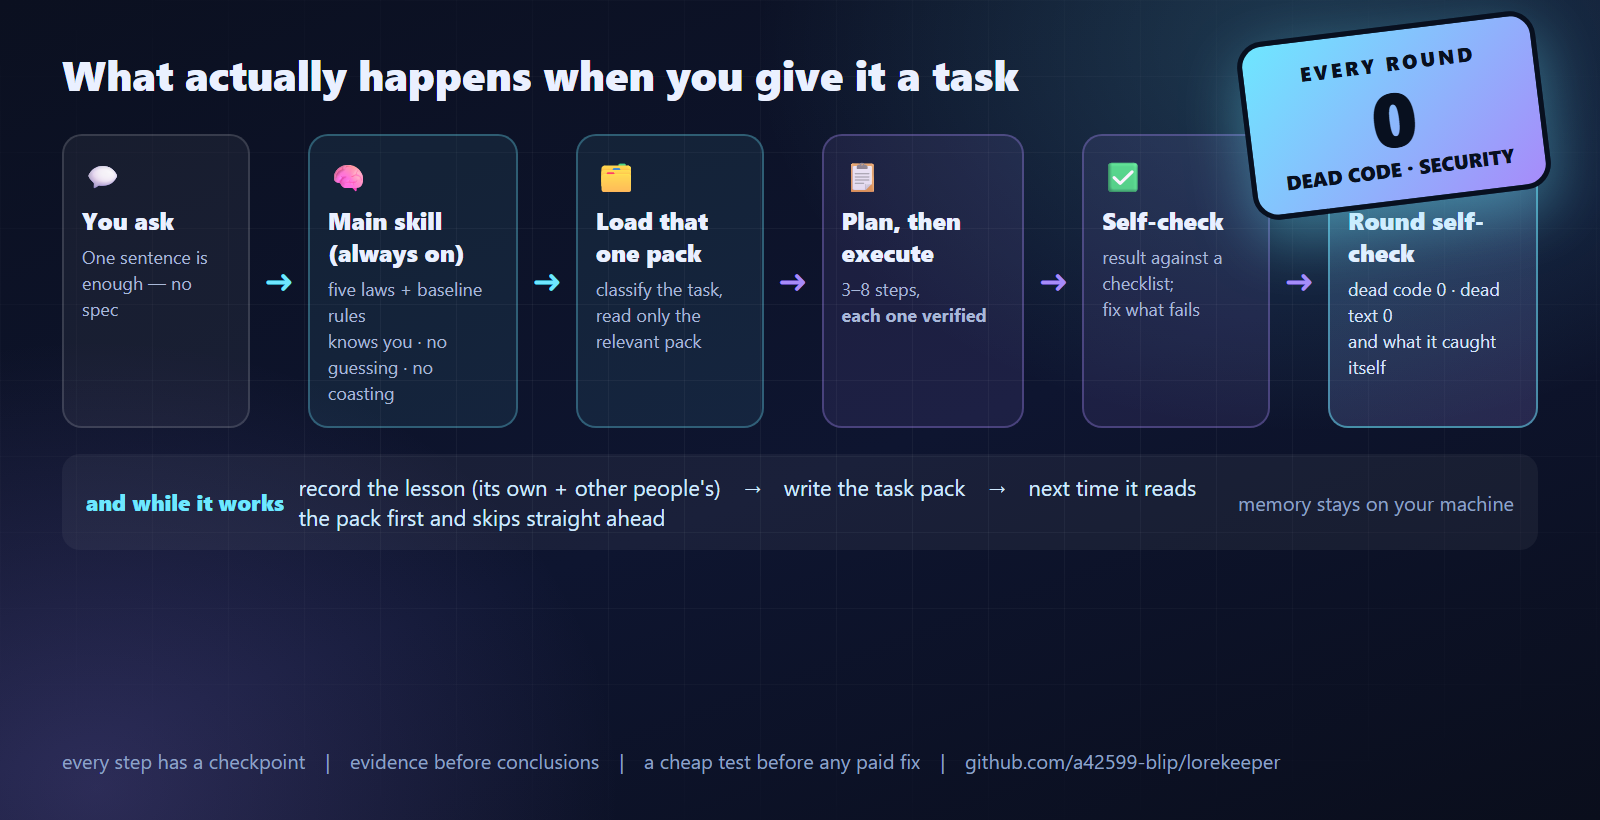
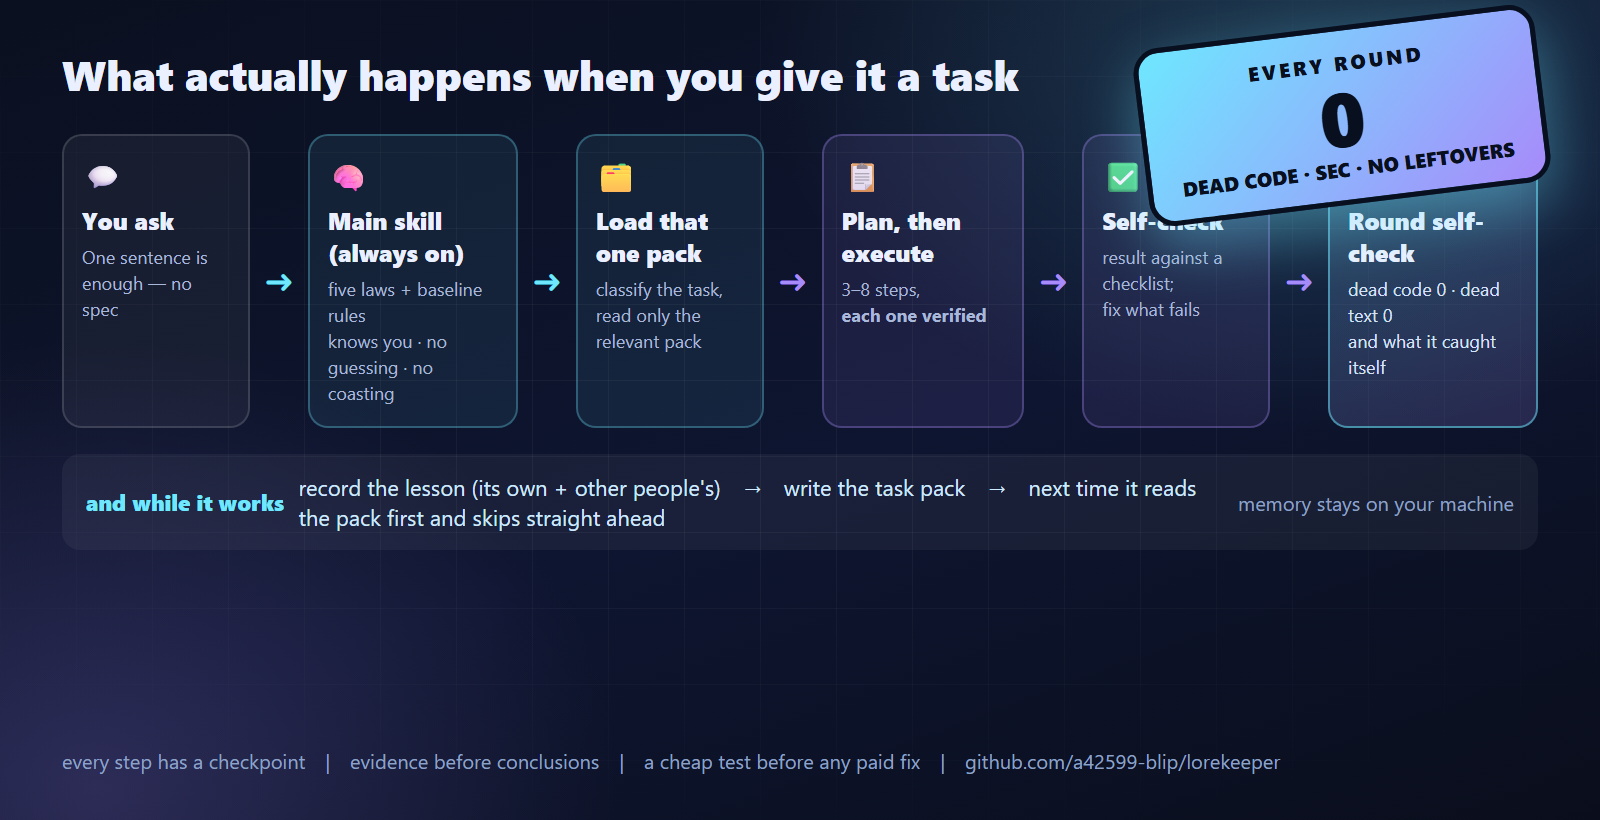
0.10.0: baseline rules B5 (trash-only deletes) and B6 (scratch folders, cleared per stage)

Changed region(s): [[0.6875, 0.0, 0.9688, 0.3049]]

diff --git a/locales/zh-TW/SKILL.zh-TW.md b/locales/zh-TW/SKILL.zh-TW.md
@@ -44,6 +44,8 @@ license: 保留所有權利 — 見 LICENSE（All rights reserved）
 | **B2** | **換掉就刪掉** | 換一個做法，舊的就在同一次改動裡刪掉。**不准留「以備不時之需」的註解舊碼**——版本控制就是那個「不時之需」。 |
 | **B3** | **寫入或安裝前，先講一聲** | 一行就好：你要新增／改動／安裝什麼、放在哪裡。**不要不講話就動主人的環境**（專案外的檔案、技能、記憶資料夾、設定）。 |
 | **B4** | **沒驗證不准說成功** | 「完成」＝你跑過檢查、能指出它的輸出。否則就說「還沒測」。 |
+| **B5** | **刪除只能丟資源回收筒，永不永久刪除** | 刪掉就回不來了，而主人「從你的錯誤裡救回來」的能力不能失去。不管檔案、資料夾、暫存檔——**一律丟資源回收筒**（或 `trash` 指令）。❌ 永遠不用 `rm -rf`、`del`、永久刪除，**也永遠不准清空回收筒**（那是主人一個人的決定）。工具不能用 → **問主人**，絕對不要改成更硬的刪除。 |
+| **B6** | **每件任務一個過渡資料夾，階段做完就清掉** | 給每個任務一個名字清楚的暫存資料夾（`_scratch/<任務>/` 或系統暫存區）。所有中間產物都放那裡——草稿、下載檔、抽出來的畫面、測試輸出。**階段結束或任務完成的那一刻，把整個過渡資料夾丟回收筒。** 不讓暫存檔散到專案裡、也不要「先放著以後用」；電腦每過一週就肥一圈，只會越來越慢。 |
 
 > 為什麼 B1 是底線而不是「有空再說」：廢碼不是中性的。它遮住真正的程式、誤導下一個讀的人（包括未來的你），
 > 而且每一個失效的參照都是一顆往後會炸的雷。**廢掉的段落也一樣**：同一件事留兩個版本、其中一個還是錯的，
@@ -59,9 +61,11 @@ license: 保留所有權利 — 見 LICENSE（All rights reserved）
 3. **每一輪都要跑安全檢查（安全隱患掃描）**：機密或金鑰有沒有被寫進程式、文件、提交、記錄、截圖或生成的媒體；
    私人資料有沒有留在任何會離開這台電腦的東西裡；有沒有沒經過主人同意就安裝的東西、
    有沒有他不知道的新檔案、下載或套件。**唯一可接受的結果就是乾淨。**
-4. **講你找到並刪掉了什麼**——就算答案是「沒有」，也要講。
-5. **主動回報你這一輪自己抓到了什麼**：驗證時發現的 bug、想錯的假設、找到更好的做法——**修好，然後說出來**。
-6. **列出還沒完成的**：沒測的、沒做完的、用假設帶過的。
+4. **清掃過渡空間**：這一輪用到的暫存資料夾、下載檔、抽出的檔案、草稿，只要不再需要就**丟資源回收筒**，
+   不要「先放著以備不時之需」。
+5. **講你找到並刪掉了什麼**——就算答案是「沒有」，也要講。
+6. **主動回報你這一輪自己抓到了什麼**：驗證時發現的 bug、想錯的假設、找到更好的做法——**修好，然後說出來**。
+7. **列出還沒完成的**：沒測的、沒做完的、用假設帶過的。
 
 每一輪都用這一個小區塊回報：
 
@@ -70,6 +74,7 @@ license: 保留所有權利 — 見 LICENSE（All rights reserved）
 - 廢碼 .............. 0
 - 廢文字／過期資料 .... 0
 - 安全隱患 .......... 乾淨（無外洩金鑰 · 無私人資料外流 · 無未經同意的安裝）
+- 過渡檔殘留 ........ 無（或：把〈什麼〉丟了資源回收筒）
 - 我自己抓到 ......... 〈bug／錯的假設／更好的做法〉——已修，怎麼驗證的
 - 還沒做／沒測 ....... 〈列出〉
 ```
@@ -161,7 +166,8 @@ license: 保留所有權利 — 見 LICENSE（All rights reserved）
 [ ] 沒有留下廢碼（沒人叫用的碼、註解掉的舊程式、用不到的 import／CSS／翻譯鍵）
 [ ] 沒有留下廢文字（被取代／重複的段落已刪，整篇從頭到尾讀得順）
 [ ] 沒有留下孤兒檔案（沒有東西在連結它了，就刪掉）
-[ ] 有寫「本輪自檢」區塊（廢碼 · 廢文字／過期資料 · 自己抓到什麼 · 還沒做的）
+[ ] 沒有留下過渡檔（暫存資料夾與下載檔已丟資源回收筒）
+[ ] 有寫「本輪自檢」區塊（廢碼 · 廢文字／過期資料 · 安全隱患 · 過渡檔 · 自己抓到什麼 · 還沒做的）
 [ ] 我列出了沒做完的部分與未知
 [ ] 如果有學到東西，已經寫進 lessons.md
 ```

diff --git a/SKILL.md b/SKILL.md
@@ -40,6 +40,8 @@ These are not a task pack and they are not optional. They are the hygiene of doi
 | **B2** | **Replace means delete.** | When you swap an implementation, the old one goes in the same change. Never leave the previous version commented out "just in case". Version control is the just-in-case. |
 | **B3** | **Announce before you write or install.** | One line: what you are about to create, change, or install, and where. Never modify the owner's environment — files outside the project, skills, memory folders, settings — without telling them first. |
 | **B4** | **No unverified success.** | "Done" means you ran the check and can point at its output. Otherwise say "not tested yet". |
+| **B5** | **Delete to the trash — never for real.** | Deleting is irreversible; the owner's ability to recover from your mistake is not. Use the operating system's recycle bin / trash (or a `trash` command) for **everything** — files, folders, temporary files. Never `rm -rf`, never `del`, never a permanent delete, never empty the trash (that is the owner's decision alone). If the trash tool is unavailable, ask — do not upgrade to a harder delete. |
+| **B6** | **Work in a scratch folder, and clean it up when the stage is done.** | Give each task its own clearly named scratch folder (`_scratch/<task>/` or the system temp dir). Put every intermediate artefact there — drafts, downloads, extracted frames, test output. The moment a stage or the task is finished, move the scratch folder **to the trash**. Do not let temp files scatter into the project or pile up “for later”; a machine that grows fatter every week is a slow machine. |
 
 > Why B1 is baseline and not a nicety: dead code is not neutral. It hides the real code, misleads the
 > next reader (including future you), and every stale reference is a trap that breaks something later.
@@ -60,10 +62,12 @@ End **every** round of work the same way; make it a reflex, not a favour.
    logs, screenshots or generated media; private data left in anything that leaves the machine;
    anything installed without the owner's approval; any new file, download or dependency the owner
    was not told about. A clean result is the only acceptable result.
-4. **Say what you found and removed — even when the answer is “nothing”.**
-5. **Report anything you caught yourself this round**: a bug you noticed while verifying, an assumption
+4. **Sweep the scratch space.** Any temporary folder, download, extracted file or draft from this
+   round that is no longer needed goes **to the trash** — not left behind “just in case”.
+5. **Say what you found and removed — even when the answer is “nothing”.**
+6. **Report anything you caught yourself this round**: a bug you noticed while verifying, an assumption
    that turned out wrong, a better method you found. Fix it, then say so.
-6. **List what is still open**: untested, unfinished, assumed.
+7. **List what is still open**: untested, unfinished, assumed.
 
 Report it in one short block, every round:
 
@@ -72,6 +76,7 @@ Round self-check
 - dead code .................... 0
 - dead text / stale data ....... 0
 - security ..................... clean   (no secrets · no private data leaving · nothing installed unapproved)
+- scratch files ................ none left   (or: moved <what> to the trash)
 - caught myself ................ <bug / wrong assumption / better method> — fixed, verified how
 - not done / untested .......... <list>
 ```
@@ -162,7 +167,8 @@ Hard rules:
 [ ] No dead code left behind (unused code, commented-out blocks, unused imports/CSS/i18n keys)
 [ ] No dead text left behind (superseded/duplicated passages removed; the document reads coherently from top to bottom)
 [ ] No orphaned files left behind (assets or documents nothing links to any more)
-[ ] The round self-check block is written (dead code · dead text/stale data · what I caught myself · leftovers)
+[ ] No scratch files left behind (temporary folders and downloads moved to the trash)
+[ ] The round self-check block is written (dead code · dead text/stale data · security · scratch · what I caught myself · leftovers)
 [ ] I listed leftovers and unknowns
 [ ] I wrote the lesson(s) to lessons.md if anything was learned
 ```

diff --git a/CHANGELOG.md b/CHANGELOG.md
@@ -3,6 +3,27 @@
 All notable changes to this project are recorded here.
 Format: date — change. Versions are loose (this is a document-driven skill).
 
+## [0.10.0] — 2026-09-30
+
+**Two habits from real work, now part of the base skill: delete safely, and leave no temporary mess.**
+
+New baseline rules B5 and B6 in `SKILL.md` (both languages) and in both README halves:
+
+- **B5 — Delete to the trash, never for real.** Deleting is irreversible; the owner's ability to
+  recover from your mistake is not. Files, folders and temporary files all go to the recycle bin /
+  trash (or a `trash` command). Never `rm -rf`, never `del`, never a permanent delete, and never empty
+  the trash — that is the owner's decision alone. If the trash tool is unavailable, ask; do not upgrade
+  to a harder delete.
+- **B6 — Work in a scratch folder, clear it when the stage ends.** Give each task its own clearly named
+  scratch folder, keep every intermediate artefact there, and move the whole folder to the trash the
+  moment the stage or task finishes — not “for later”. A machine that grows fatter every week is a slow
+  machine.
+
+Supporting changes: the round self-check gained a **scratch files** line (`none left`), the
+definition-of-done list gained a matching item, the comparison table notes *safe deleting + scratch
+cleanup*, and the sticker on all ten diagrams now reads **廢碼 · 安全 · 零殘留**
+(English: **DEAD CODE · SEC · NO LEFTOVERS**).
+
 ## [0.9.0] — 2026-09-30
 
 **The strength is now impossible to miss — a shop-window sticker, and security joins the per-round check.**
